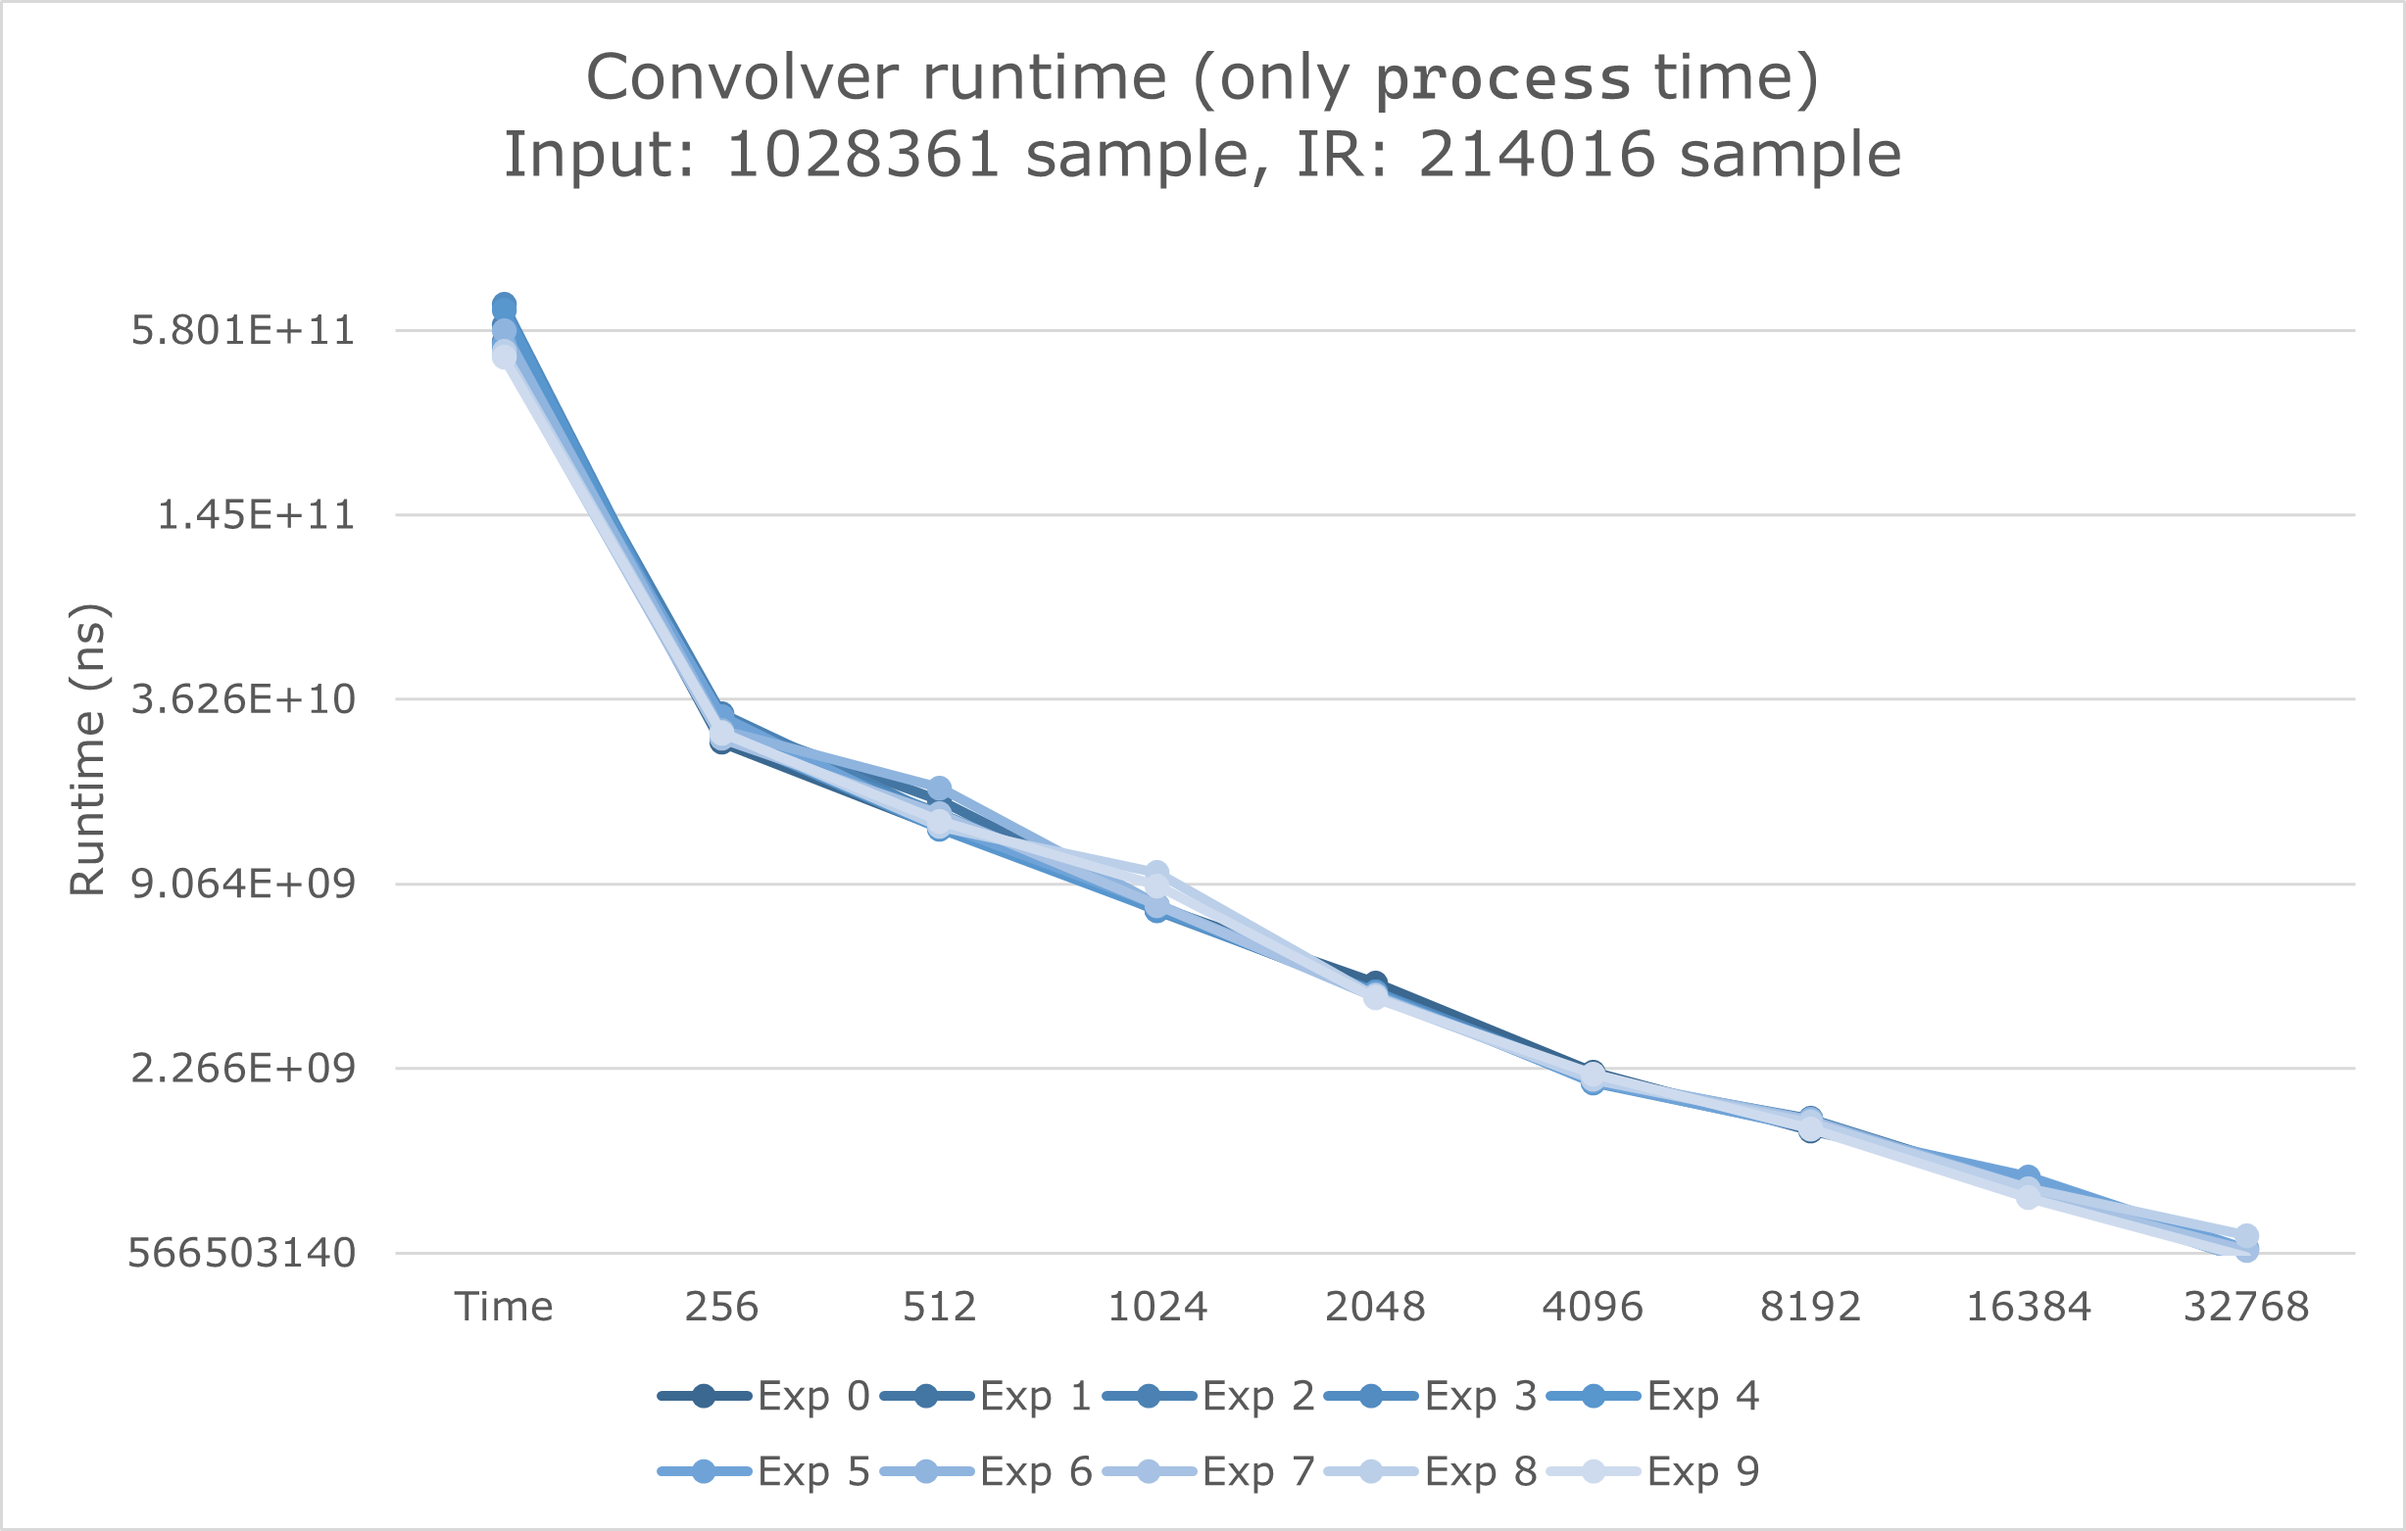
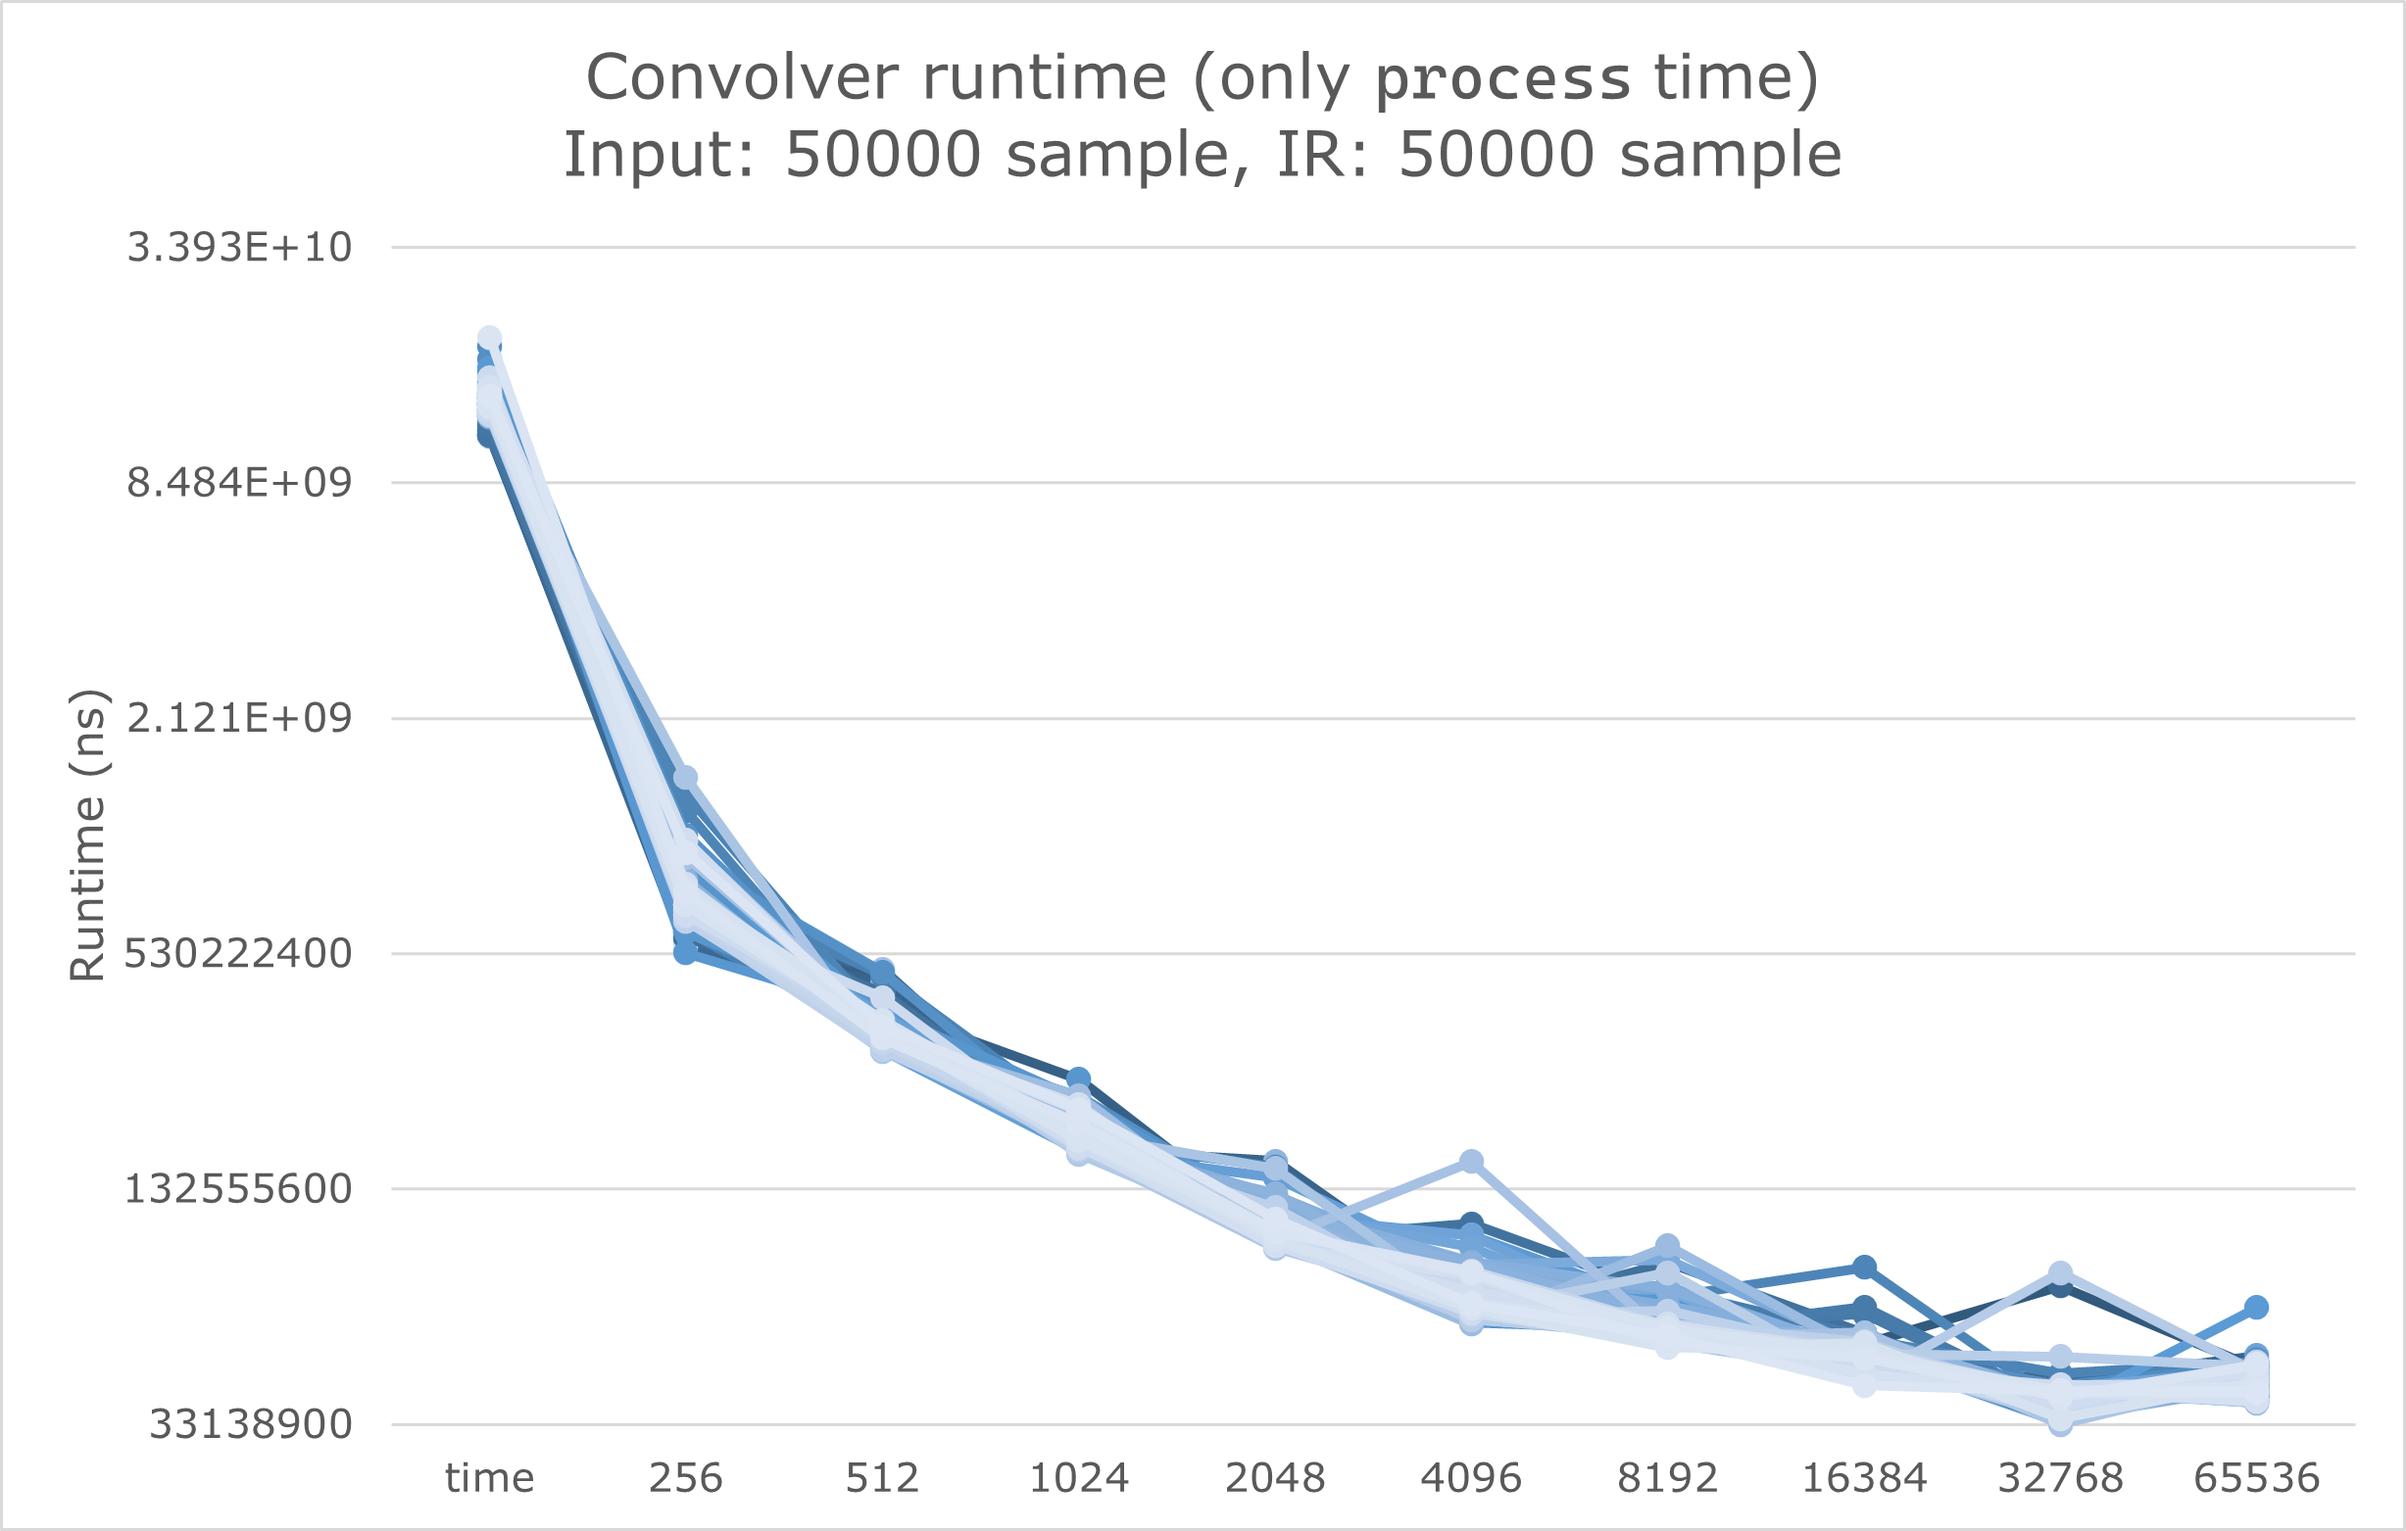
rerun experiment on new convolver & update comparison report

diff --git a/exp_runner.py b/exp_runner.py
@@ -1,0 +1,75 @@
+import subprocess
+import re
+from typing import Callable, List, Optional
+import tqdm
+import csv
+
+
+def run_exp_using_given_arg(arg: List[str], runtime_extractor: Callable[[str], Optional[int]], repetition_times: int, desc: str):
+    result = []
+    for _ in tqdm.tqdm(range(repetition_times), desc=desc):
+        result.append(runtime_extractor(subprocess.run(arg, capture_output=True, text=True).stdout))
+    return result
+
+
+def extractor(s: str) -> Optional[int]:
+    expression = r"(\d+) ns\.$"
+    pattern = re.compile(expression)
+    match_obj = pattern.search(s)
+    if match_obj is not None:
+        runtime = match_obj.group(1)
+        return int(runtime)
+    return None
+
+
+input_filename = "bin/Debug/fake_id_short.wav"
+ir_filename = "bin/Debug/IR_MEDIUM.wav"
+output_filename = "bin/Debug/out.wav"
+N_EXP = 100
+
+with open("runtime.csv", "w", encoding="utf-8") as f:
+    csv_writer = csv.writer(f)
+    for block_size_bitshift in range(8, 17):
+        csv_writer.writerow(
+            [1 << block_size_bitshift] + 
+            run_exp_using_given_arg(
+                [
+                    "bin/relwithdebinfo/MUSI6106Exec.exe",
+                    "-t",
+                    "freq",
+                    "-g",
+                    "0.1",
+                    "-b",
+                    str(1 << block_size_bitshift),
+                    "-i",
+                    input_filename,
+                    "-r",
+                    ir_filename,
+                    "-o",
+                    output_filename
+                ],
+                extractor,
+                N_EXP,
+                str(1 << block_size_bitshift)
+            )
+        )
+    csv_writer.writerow(["time"] + run_exp_using_given_arg(
+                [
+                    "bin/relwithdebinfo/MUSI6106Exec.exe",
+                    "-t",
+                    "time",
+                    "-g",
+                    "0.1",
+                    "-b",
+                    "1024",
+                    "-i",
+                    input_filename,
+                    "-r",
+                    ir_filename,
+                    "-o",
+                    output_filename
+                ],
+                extractor,
+                N_EXP,
+                "time"
+            ))

diff --git a/src/MUSI6106Exec/MUSI6106Exec.cpp b/src/MUSI6106Exec/MUSI6106Exec.cpp
@@ -304,7 +304,11 @@ int main(int argc, char* argv[])
 
     // flush remaining
     float* remain = new float[impulseResponse.getNumSample() - 1 + args.blockSize]();
+
+    auto start = std::chrono::steady_clock::now();
     pCFastConv->flushBuffer(remain);
+    processDuration += std::chrono::duration_cast<std::chrono::nanoseconds>(std::chrono::steady_clock::now() - start).count();
+
     outputAudio.writeData(remain, impulseResponse.getNumSample() - 1 + args.blockSize);
 
     cout << "Accumulated processing time: \t" << processDuration << " ns." << endl;

diff --git a/runtime_comparison.md b/runtime_comparison.md
@@ -1,49 +1,13 @@
 ## Runtime (`process` call only)
 
-We run 10 experiments for each convolver settings. We test time domain FIR convolver, frequency domain FFT convolver with block size 256, 512, 1024, 2048, 4096, 8192, 16384, and 32768. We use `std::chrono::steady_clock` to evaluate runtime more accurately than `ctime`. The runtime unit is nanosecond (1e-9s).
+We run 100 experiments for each convolver settings. We test time domain FIR convolver, frequency domain FFT convolver with block size 256, 512, 1024, 2048, 4096, 8192, 16384, 32768, and 65536. We use `std::chrono::steady_clock` to evaluate runtime more accurately than `ctime`. The runtime unit is nanosecond (1e-9s).
 
-We run all 90 experiments on the same input file (1028361 samples) and IR file (214016 samples) on the same computer (CPU: Intel(R) Core(TM) i7-8650U CPU @ 1.90GHz; System: Windows 10 build 19043.1645) with no other system load. The executable is compiled using `x86_64 release` configuration with `-O3` optimization flag enabled. The commands used in all experiments are listed below:
+We run all 1000 experiments on the same input file (50000 samples) and IR file (50000 samples) on the same computer (CPU: Intel(R) Core(TM) i7-8650U CPU @ 1.90GHz; System: Windows 10 build 19043.1645) with no other system load. The executable is compiled using `x86_64 release` configuration with `-O3` optimization flag enabled.
 
-```bash
-$ ./MUSI6106Exec -t time -b 1024 -g 0.1 -i fake_id.wav -r IR.wav -o out.wav
-$ ./MUSI6106Exec -t freq -b 256 -g 0.1 -i fake_id.wav -r IR.wav -o out.wav
-$ ./MUSI6106Exec -t freq -b 512 -g 0.1 -i fake_id.wav -r IR.wav -o out.wav
-$ ./MUSI6106Exec -t freq -b 1024 -g 0.1 -i fake_id.wav -r IR.wav -o out.wav
-$ ./MUSI6106Exec -t freq -b 2048 -g 0.1 -i fake_id.wav -r IR.wav -o out.wav
-$ ./MUSI6106Exec -t freq -b 4096 -g 0.1 -i fake_id.wav -r IR.wav -o out.wav
-$ ./MUSI6106Exec -t freq -b 8192 -g 0.1 -i fake_id.wav -r IR.wav -o out.wav
-$ ./MUSI6106Exec -t freq -b 16384 -g 0.1 -i fake_id.wav -r IR.wav -o out.wav
-$ ./MUSI6106Exec -t freq -b 32768 -g 0.1 -i fake_id.wav -r IR.wav -o out.wav
-```
+The experiment raw data is available [here](https://github.com/medioqrity/2022-MUSI6106/blob/assignment3_fastconv/runtime.csv). The experiments are automatically conducted & collected by [this script](https://github.com/medioqrity/2022-MUSI6106/blob/assignment3_fastconv/exp_runner.py).
 
-The experiment raw data is listed below:
-
-| BlockSize | Exp 0        | Exp 1        | Exp 2        | Exp 3        | Exp 4        | Exp 5        | Exp 6        | Exp 7        | Exp 8        | Exp 9        | AVG         |
-| --------- | ------------ | ------------ | ------------ | ------------ | ------------ | ------------ | ------------ | ------------ | ------------ | ------------ | ----------- |
-| Time      | 534092818800 | 507392937400 | 604477801600 | 704698770800 | 676857390700 | 525647673400 | 578527688000 | 479702965400 | 495317900700 | 472913106100 | 557962905290 |
-| 256       | 26255107400  | 30781267300  | 32633326000  | 28449182000  | 27971667900  | 31935829400  | 28741947700  | 27076440300  | 28329957800  | 28183738000  | 29035846380 |
-| 512       | 13867580100  | 16921592200  | 15044385800  | 15427789100  | 13691386700  | 14185895100  | 18670749100  | 15373475500  | 13967057400  | 14501443000  | 15165135400 |
-| 1024      | 7673700800   | 7504299600   | 7398391300   | 7684410900   | 7437939100   | 7726721800   | 7759071000   | 7714008600   | 9872602700   | 8952319000   | 7972346480  |
-| 2048      | 4319090400   | 3948207400   | 4028238400   | 4029799200   | 4024757200   | 3960182300   | 3938185600   | 3877580700   | 3905494300   | 3851614200   | 3988314970  |
-| 4096      | 2209569200   | 2090650100   | 2121871200   | 2127310900   | 2033298700   | 2061201300   | 2123743400   | 2099357600   | 2091577600   | 2175055200   | 2113363520  |
-| 8192      | 1421631800   | 1556480600   | 1494852300   | 1446110700   | 1452868800   | 1443496600   | 1545761700   | 1526350200   | 1510624900   | 1439304700   | 1483748230  |
-| 16384     | 981889700    | 926660100    | 922656800    | 974655500    | 986397000    | 1003178500   | 921550800    | 881640000    | 918724000    | 858121700    | 937547410   |
-| 32768     | 558893600    | 563068700    | 538381400    | 542289200    | 564541000    | 584424500    | 538133400    | 579705200    | 646199500    | 549394900    | 566503140   |
-
-And the visualized figure for more intuitive comparison:
+This is the visualized figure:
 
 ![fig](fig.png)
 
-Notice that the y-axis is $\log_2$ scale. Compared with time domain convolution, the fastest FFT convolver is ~984.9246x faster.
-
-## Some observations
-
-When FFT block size axis and runtime axis are both under $\log_2$ scale, the relationship between runtime and block size seems to be linear. That is to say, doubling block size approximately halves the runtime.
-
-If we perform linear regression on FFT part data, we have
-
-![fig2](fig2.png)
-
-The exponential part ($e^{-0.56136x} \approx 0.57043^x$) clearly supports the previous observation that doubling block size approximately halves (actually approximately `*= 0.57043`) the runtime. This also shows the ratio of constant in time complexity. When FFT block size ~= $5.553613770329971$, the FFT convolver should have similar runtime performance with the time domain convolver.
-
-When FFT block size = 1, it will take ~2.2867x time of time domain convolver to finish convolution. This reflects FFT's large constant $c$ in $\mathcal{O}(c n \log n)$ compared to time domain convolver.
+Notice that the y-axis is $\log_2$ scale. Compared with time domain convolution, the fastest FFT convolver is ~343.9192x faster.
